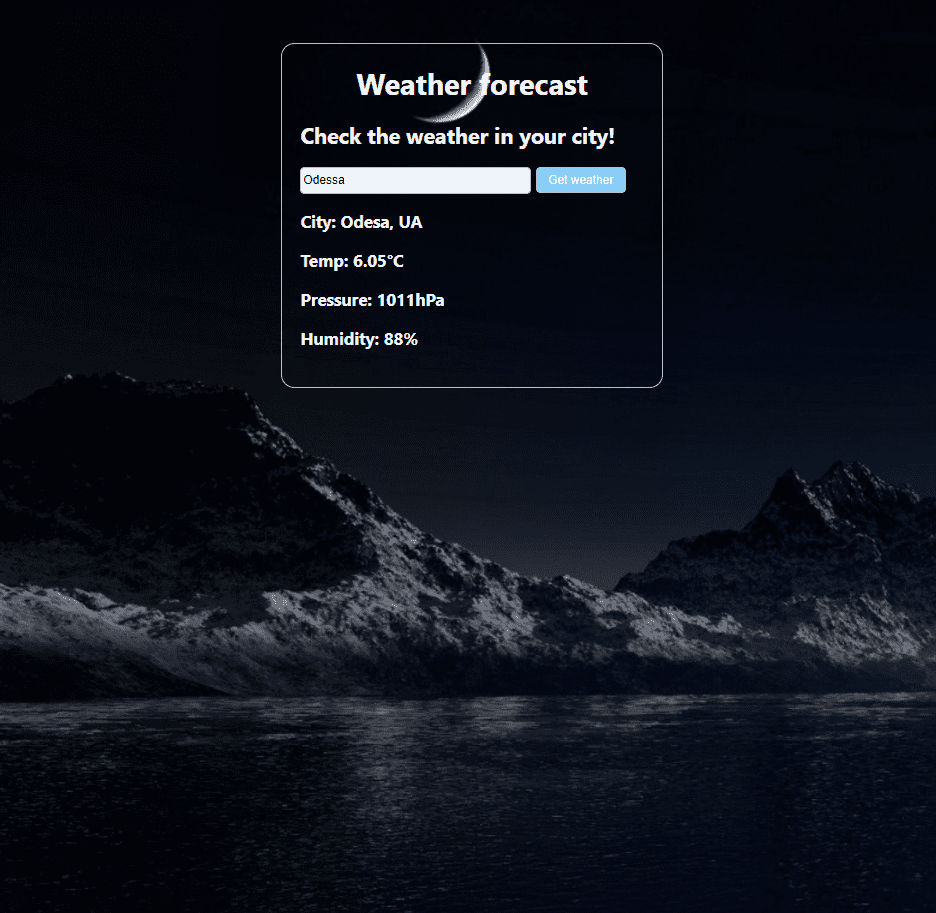
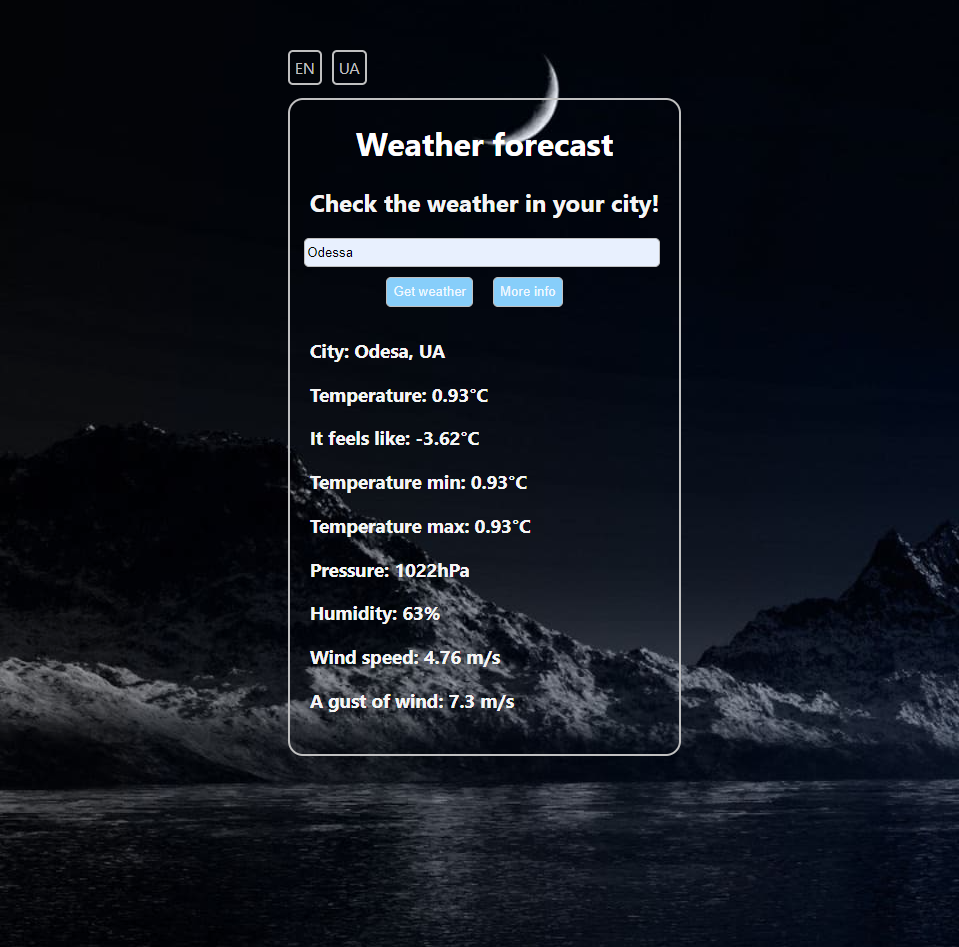
first commit

Changed region(s): [[0.0, 0.0307, 1.0, 1.0], [0.6816, 0.828, 0.8675, 0.8894], [0.1239, 0.8894, 0.1549, 0.92]]

diff --git a/src/components/projects/Projects.jsx b/src/components/projects/Projects.jsx
@@ -1,7 +1,21 @@
 import React from "react";
 import { Cards } from "../../core/card/Card";
 
-function Projects() {
+function Projects({
+  infoOne,
+  infoTwo,
+  infoThree,
+  infoFour,
+  infoFive,
+  infoSix,
+  infoSeven,
+  infoEight,
+  infoNine,
+  infoTen,
+  infoEleven,
+  infoTwelve,
+  infoThirteen,
+}) {
   return (
     <>
       <div className="cards">
@@ -10,60 +24,91 @@ function Projects() {
           project="Food delivery"
           tehnology="HTML, CSS"
           href="https://naumkinalexsandr.github.io/Food_delivery/"
+          info={infoOne}
         />
         <Cards
           className="card-img two"
           project="3D-hoodie"
           tehnology="HTML, CSS, JavaScript"
           href="https://naumkinalexsandr.github.io/3D-hoodie/"
+          info={infoTwo}
+        />
+        <Cards
+          className="card-img eleven"
+          project="Witcher parallax"
+          tehnology="HTML, CSS, JavaScript"
+          href="https://naumkinalexsandr.github.io/Witcher-parallax/"
+          info={infoEleven}
+        />
+        <Cards
+          className="card-img twelve"
+          project="Magical forest"
+          tehnology="HTML, CSS, JavaScript"
+          href="https://naumkinalexsandr.github.io/Magical-forest/"
+          info={infoTwelve}
         />
         <Cards
           className="card-img three"
           project="HLEGAL"
           tehnology="HTML, CSS, SCSS, JavaScript"
           href="https://naumkinalexsandr.github.io/HLEGALS/"
+          info={infoThree}
         />
         <Cards
           className="card-img four"
           project="Odessa"
           tehnology="HTML, CSS, SCSS, JavaScript"
           href="https://naumkinalexsandr.github.io/Odessa/"
+          info={infoFour}
         />
         <Cards
           className="card-img five"
           project="Authorization"
           tehnology="HTML, CSS, JavaScript"
           href="https://naumkinalexsandr.github.io/login/"
+          info={infoFive}
         />
         <Cards
           className="card-img six"
           project="Education"
-          tehnology="HTML, CSS, SCSS, Bootstrap, JavaScript"
+          tehnology="HTML, CSS, SCSS, Bootstrap, JavaScript, jQuery, Webpack"
           href="https://naumkinalexsandr.github.io/education/html/html.html"
+          info={infoSix}
         />
         <Cards
           className="card-img seven"
           project="Weather forecast"
-          tehnology="HTML, CSS, JavaScript, React"
+          tehnology="HTML, SCSS, JavaScript, React"
           href="https://naumkinalexsandr.github.io/weather/"
+          info={infoSeven}
+        />
+        <Cards
+          className="card-img thirteen"
+          project="Car Vincode"
+          tehnology="HTML, CSS, JavaScript, React"
+          href="https://naumkinalexsandr.github.io/vin/"
+          info={infoThirteen}
         />
         <Cards
           className="card-img eight"
           project="Todo list"
-          tehnology="HTML, CSS, JavaScript, React, Redux"
+          tehnology="HTML, SCSS, JavaScript, React, Redux"
           href="https://naumkinalexsandr.github.io/Todolist/"
+          info={infoEight}
         />
         <Cards
           className="card-img nine"
           project="Mobile APP"
-          tehnology="HTML, CSS, JavaScript, React, Redux "
+          tehnology="HTML, SCSS, JavaScript, React, Redux "
           href="https://github.com/NaumkinAlexsandr/diploma"
+          info={infoNine}
         />
         <Cards
           className="card-img ten"
           project="Light Shop"
           tehnology="HTML, CSS, JavaScript, React, Redux, Material UI"
           href="https://naumkinalexsandr.github.io/LightShop/"
+          info={infoTen}
         />
       </div>
     </>

diff --git a/src/components/sectionRussian/ProjectsRU.jsx b/src/components/sectionRussian/ProjectsRU.jsx
@@ -25,7 +25,21 @@ function ProjectsRU() {
         id1="summary-buttun"
         id2="projects-buttun"
       />
-      <Projects />
+      <Projects
+        infoOne="Макет адаптивного сайта доставки еды с применением Flexbox."
+        infoTwo="3D Слайдер с эффектом вращения элементов на мерцающем дымчатом фоне. С использованием анимации и преобразования."
+        infoThree="Сайт для юридической компании. С использованием Flexbox и Grid. "
+        infoFour="Сайт города Одессы с описанием его достопримечательностей. С использованием Flexbox, атакже применением  анимации и преобразования."
+        infoFive="Форма регистрации пользователя с полной валидацией формы."
+        infoSix="Небольшой обучающий сайт для начинающих Front-end разработчиков. С описанием свойст, еллементов, атакже различными примерами. "
+        infoSeven="Сайт прогноза погоды с применением Fetch API запросов и выводом информации по заданным параметрам."
+        infoEight="Создание списка дел с применением Redux, также возможностью добавления и удаления дел."
+        infoNine="Создание мобильного аппа, с возможностью добавления и удаления различных задач. "
+        infoTen="Макет интернет магазина электрооборудования. Есть возможность поиска товара по названию, добовление его в корзину."
+        infoEleven="Слайдер горизонтальный с использованием анимации и паралакс эффектом."
+        infoTwelve="Анимированный сайт с использованием параллакс эффектов."
+        infoThirteen="Получение информации о машине по указанному вин коду с использованием Fetch API запроса. Информация выводится в зависимости от одного из трёх запросов."
+      />
     </>
   );
 }

diff --git a/src/components/sectionUkrainian/ProjectsUA.jsx b/src/components/sectionUkrainian/ProjectsUA.jsx
@@ -25,7 +25,21 @@ function ProjectsUA() {
         id1="summary-buttun"
         id2="projects-buttun"
       />
-      <Projects />
+      <Projects
+        infoOne="Макет адаптивного сайту доставки їжі із застосуванням Flexbox."
+        infoTwo="3D слайдер з ефектом обертання елементів на мерехтливому димчастому фоні. З використанням анімації та перетворення."
+        infoThree="Сайт для юридичної компанії. З використанням Flexbox та Grid."
+        infoFour="Сайт міста Одеси з описом його визначних пам'яток. З використанням Flexbox, а також застосуванням анімації та перетворення."
+        infoFive="Форма реєстрації користувача з повною валідацією форми."
+        infoSix="Невеликий навчальний сайт для початківців Front-end розробників. З описом властивостей, елементів, а також різними прикладами."
+        infoSeven="Сайт прогнозу погоди із застосуванням Fetch API запитів та виведенням інформації за заданими параметрами."
+        infoEight="Створення списку справ із застосуванням Redux, а також можливістю додавання та видалення справ."
+        infoNine="Створення мобільного аппа, з можливістю додавання та видалення різних завдань."
+        infoTen="Макет інтернет магазину електроустаткування. Є можливість пошуку товару за назвою, додавання його до кошика."
+        infoEleven="Слайдер горизонтальний з використанням анімації та паралакс ефектом."
+        infoTwelve="Анімований сайт з використанням паралакс ефектів."
+        infoThirteen="Отримання інформації про машину за вказаним віном кодом з використанням Fetch API запиту. Інформація відображається залежно від одного з трьох запитів."
+      />
     </>
   );
 }

diff --git a/src/components/sectionEnglish/ProjectsEN.jsx b/src/components/sectionEnglish/ProjectsEN.jsx
@@ -25,7 +25,21 @@ function ProjectsEN() {
         id1="summary-buttun"
         id2="projects-buttun"
       />
-      <Projects />
+      <Projects
+        infoOne="Responsive food delivery site layout using Flexbox."
+        infoTwo="3D Slider with the effect of rotating elements on a shimmering smoky background. Using animation and transformation."
+        infoThree="Website for a law firm. Using Flexbox and Grid."
+        infoFour="Website of the city of Odessa with a description of its sights. Using Flexbox and applying animation and transformation."
+        infoFive="User registration form with full form validation."
+        infoSix="A small training site for beginner Front-end developers. With a description of the properties, elements, as well as various examples."
+        infoSeven="A weather forecast site using the Fetch API requests and displaying information on the specified parameters."
+        infoEight="Creating a todo list using Redux, also the ability to add and remove to-dos."
+        infoNine="Creation of a mobile app, with the ability to add and remove various tasks."
+        infoTen="The layout of the online store of electrical equipment. It is possible to search for a product by name, adding it to the basket."
+        infoEleven="Horizontal slider with animation and parallax effect."
+        infoTwelve="Animated website using parallax effects."
+        infoThirteen="Getting information about the car by the specified VIN using the Fetch API request. Information is displayed depending on one of three requests."
+      />
     </>
   );
 }

diff --git a/src/core/card/card.scss b/src/core/card/card.scss
@@ -10,7 +10,8 @@
   .card-project {
     max-width: 320px;
     width: 100%;
-    height: 400px;
+    min-height: 400px;
+    height: auto;
     border-radius: 10px;
     border: 1px solid silver;
     background-color: rgb(231, 231, 231);
@@ -26,9 +27,16 @@
     h3 {
       margin: 10px 15px;
       font-size: 20px;
+      font-weight: bold;
+      text-shadow: 0 0 0.5px black;
     }
 
     h4 {
+      margin: 6px 15px;
+      font-size: 16px;
+    }
+
+    p {
       margin: 6px 15px;
       font-size: 14px;
     }
@@ -88,6 +96,21 @@
 
     .ten {
       background-image: url(../../img/lightShop.png);
+      background-size: cover;
+    }
+
+    .eleven {
+      background-image: url(../../img/witcher.png);
+      background-size: cover;
+    }
+
+    .twelve {
+      background-image: url(../../img/magicalForest.png);
+      background-size: cover;
+    }
+
+    .thirteen {
+      background-image: url(../../img/vincode.png);
       background-size: cover;
     }
   }

diff --git a/src/core/card/Card.jsx b/src/core/card/Card.jsx
@@ -1,7 +1,7 @@
 import "./card.scss";
 import { useEffect, useState } from "react";
 
-const Cards = ({ className, project, tehnology, href }) => {
+const Cards = ({ className, project, tehnology, href, info }) => {
   const [themeClassName, setThemeClassName] = useState("card-project");
 
   useEffect(() => {
@@ -15,6 +15,7 @@ const Cards = ({ className, project, tehnology, href }) => {
       <div className={className}></div>
       <h3>{project}</h3>
       <h4>{tehnology}</h4>
+      <p>{info}</p>
       <a target="_blank" href={href}></a>
     </div>
   );

diff --git a/src/components/header/Translate.jsx b/src/components/header/Translate.jsx
@@ -36,7 +36,6 @@ export default function Translate({
       theme === "light-theme" ? "dark-theme" : "light-theme";
     setTheme(selectedTheme);
     localStorage.setItem("theme", selectedTheme);
-    window.location.reload(false);
   }
 
   return (

diff --git a/src/style/style.scss b/src/style/style.scss
@@ -46,13 +46,3 @@ body {
     margin-left: 30px;
   }
 }
-
-// ----- summary -----
-#summary {
-  p {
-    margin-top: 0;
-    margin-bottom: 0.5rem;
-    font-weight: 500;
-    line-height: 1.2;
-  }
-}

diff --git a/src/components/summary/summary.scss b/src/components/summary/summary.scss
@@ -1,0 +1,8 @@
+#summary {
+  p {
+    margin-top: 0;
+    margin-bottom: 0.5rem;
+    font-weight: 500;
+    line-height: 1.2;
+  }
+}

diff --git a/src/components/summary/Summary.jsx b/src/components/summary/Summary.jsx
@@ -1,4 +1,5 @@
 import React from "react";
+import "./summary.scss";
 
 const Summary = ({ title, summary }) => {
   return (
